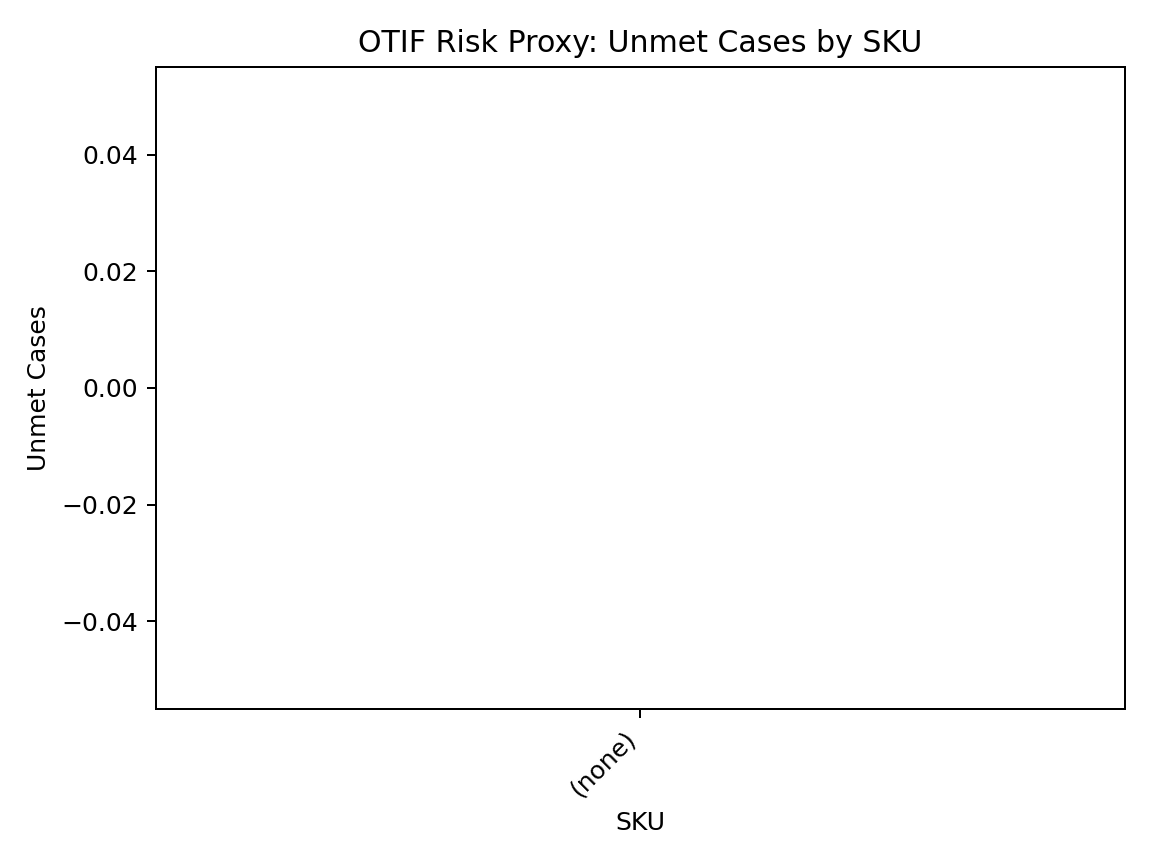
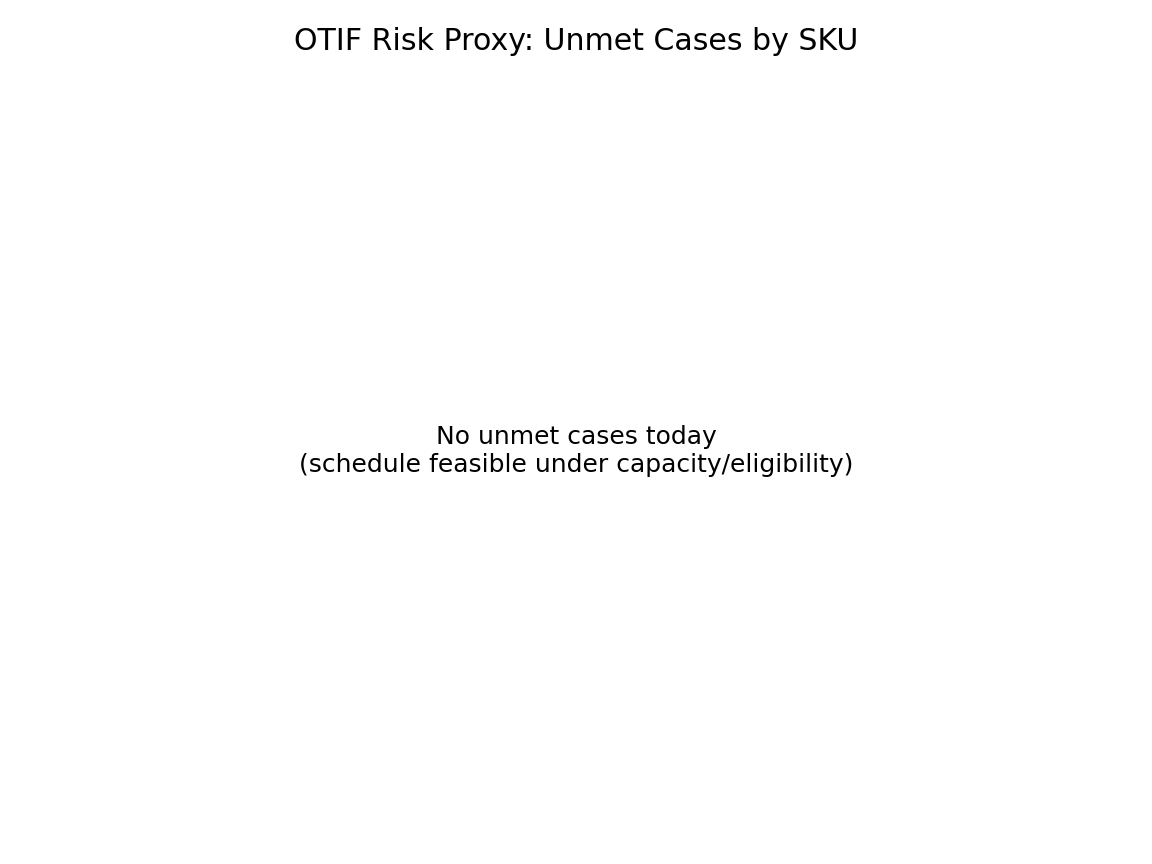
Fix OTIF risk chart when no unmet cases

diff --git a/src/04_reports_and_charts.py b/src/04_reports_and_charts.py
@@ -1,4 +1,3 @@
-
 """
 04_reports_and_charts.py
 Builds Niagara-style policy adherence report, OTIF risk list, and simple charts.
@@ -9,21 +8,63 @@ import pandas as pd
 import numpy as np
 import matplotlib.pyplot as plt
 
-def build_policy_adherence(fg_inv: pd.DataFrame, forecast: pd.DataFrame, policy: pd.DataFrame, today: str) -> pd.DataFrame:
-    fc7 = forecast[(forecast["date"] >= today) & (forecast["date"] < (pd.to_datetime(today)+pd.Timedelta(days=7)).date().isoformat())]
-    mu = fc7.groupby("sku", as_index=False)["forecast_cases"].mean().rename(columns={"forecast_cases":"avg_daily_fcst_7d"})
+
+def build_policy_adherence(
+    fg_inv: pd.DataFrame, forecast: pd.DataFrame, policy: pd.DataFrame, today: str
+) -> pd.DataFrame:
+    fc7 = forecast[
+        (forecast["date"] >= today)
+        & (forecast["date"] < (pd.to_datetime(today) + pd.Timedelta(days=7)).date().isoformat())
+    ]
+    mu = (
+        fc7.groupby("sku", as_index=False)["forecast_cases"]
+        .mean()
+        .rename(columns={"forecast_cases": "avg_daily_fcst_7d"})
+    )
     df = fg_inv.merge(mu, on="sku", how="left").merge(policy, on="sku", how="left")
     df["avg_daily_fcst_7d"] = df["avg_daily_fcst_7d"].fillna(1.0)
     df["dos"] = df["on_hand_cases"] / df["avg_daily_fcst_7d"]
-    df["status"] = np.where(df["dos"] < df["min_dos"], "RED", np.where(df["dos"] > df["max_dos"], "YELLOW", "GREEN"))
-    df["recommended_prod_cases"] = (df["target_dos"] * df["avg_daily_fcst_7d"] - df["on_hand_cases"]).clip(lower=0).round().astype(int)
+    df["status"] = np.where(
+        df["dos"] < df["min_dos"],
+        "RED",
+        np.where(df["dos"] > df["max_dos"], "YELLOW", "GREEN"),
+    )
+    df["recommended_prod_cases"] = (
+        (df["target_dos"] * df["avg_daily_fcst_7d"] - df["on_hand_cases"])
+        .clip(lower=0)
+        .round()
+        .astype(int)
+    )
     # apply MOQ and rounding
     df["recommended_prod_cases"] = np.maximum(df["recommended_prod_cases"], df["moq_cases"]).astype(int)
-    df["recommended_prod_cases"] = (np.ceil(df["recommended_prod_cases"] / df["pack_rounding"]) * df["pack_rounding"]).astype(int)
-    return df[["sku","abc","on_hand_cases","on_order_cases","eta_date","avg_daily_fcst_7d","dos","min_dos","target_dos","max_dos","status","recommended_prod_cases"]]
+    df["recommended_prod_cases"] = (
+        np.ceil(df["recommended_prod_cases"] / df["pack_rounding"]) * df["pack_rounding"]
+    ).astype(int)
+
+    return df[
+        [
+            "sku",
+            "abc",
+            "on_hand_cases",
+            "on_order_cases",
+            "eta_date",
+            "avg_daily_fcst_7d",
+            "dos",
+            "min_dos",
+            "target_dos",
+            "max_dos",
+            "status",
+            "recommended_prod_cases",
+        ]
+    ]
+
 
 def chart_line_load(schedule: pd.DataFrame, out_path: str):
-    load = schedule.groupby("line_id", as_index=False)["planned_qty_cases"].sum().sort_values("planned_qty_cases", ascending=False)
+    load = (
+        schedule.groupby("line_id", as_index=False)["planned_qty_cases"]
+        .sum()
+        .sort_values("planned_qty_cases", ascending=False)
+    )
     plt.figure()
     plt.bar(load["line_id"], load["planned_qty_cases"])
     plt.title("Planned Cases by Line (Daily Re-plan)")
@@ -33,14 +74,29 @@ def chart_line_load(schedule: pd.DataFrame, out_path: str):
     plt.savefig(out_path, dpi=180)
     plt.close()
 
+
 def chart_otif_risk(orders: pd.DataFrame, schedule: pd.DataFrame, out_path: str):
-    # Risk proxy: unmet qty by SKU (if any) weighted by due date proximity
+    # Risk proxy: unmet qty by SKU (if any)
     unmet = schedule.groupby("sku", as_index=False)["unmet_qty_cases"].sum()
     unmet = unmet[unmet["unmet_qty_cases"] > 0].copy()
-    if unmet.empty:
-        unmet = pd.DataFrame({"sku":["(none)"],"unmet_qty_cases":[0]})
+
     plt.figure()
-    plt.bar(unmet["sku"].astype(str).str.slice(0,14), unmet["unmet_qty_cases"])
+    if unmet.empty:
+        plt.text(
+            0.5,
+            0.5,
+            "No unmet cases today\n(schedule feasible under capacity/eligibility)",
+            ha="center",
+            va="center",
+        )
+        plt.title("OTIF Risk Proxy: Unmet Cases by SKU")
+        plt.axis("off")
+        plt.tight_layout()
+        plt.savefig(out_path, dpi=180)
+        plt.close()
+        return
+
+    plt.bar(unmet["sku"].astype(str).str.slice(0, 14), unmet["unmet_qty_cases"])
     plt.title("OTIF Risk Proxy: Unmet Cases by SKU")
     plt.xlabel("SKU")
     plt.ylabel("Unmet Cases")
@@ -48,6 +104,7 @@ def chart_otif_risk(orders: pd.DataFrame, schedule: pd.DataFrame, out_path: str)
     plt.tight_layout()
     plt.savefig(out_path, dpi=180)
     plt.close()
+
 
 def main(data_dir: str, results_dir: str):
     os.makedirs(os.path.join(results_dir, "charts"), exist_ok=True)
@@ -59,17 +116,27 @@ def main(data_dir: str, results_dir: str):
     sched = pd.read_csv(os.path.join(results_dir, "daily_production_schedule.csv"))
 
     today = str(orders["order_date"].min())
+
     policy_report = build_policy_adherence(fg_inv, forecast, policy, today)
     policy_report.to_csv(os.path.join(results_dir, "inventory_policy_adherence.csv"), index=False)
 
-    chart_line_load(sched[sched["line_id"]!="UNASSIGNED"], os.path.join(results_dir, "charts", "line_load.png"))
-    chart_otif_risk(orders[orders["order_date"]==today], sched, os.path.join(results_dir, "charts", "otif_risk.png"))
+    chart_line_load(
+        sched[sched["line_id"] != "UNASSIGNED"],
+        os.path.join(results_dir, "charts", "line_load.png"),
+    )
+    chart_otif_risk(
+        orders[orders["order_date"] == today],
+        sched,
+        os.path.join(results_dir, "charts", "otif_risk.png"),
+    )
 
     print("✅ inventory_policy_adherence.csv created")
     print("✅ charts saved to results/charts/")
 
+
 if __name__ == "__main__":
     import argparse
+
     p = argparse.ArgumentParser()
     p.add_argument("--data_dir", default=os.path.join(os.path.dirname(__file__), "..", "data"))
     p.add_argument("--results_dir", default=os.path.join(os.path.dirname(__file__), "..", "results"))
